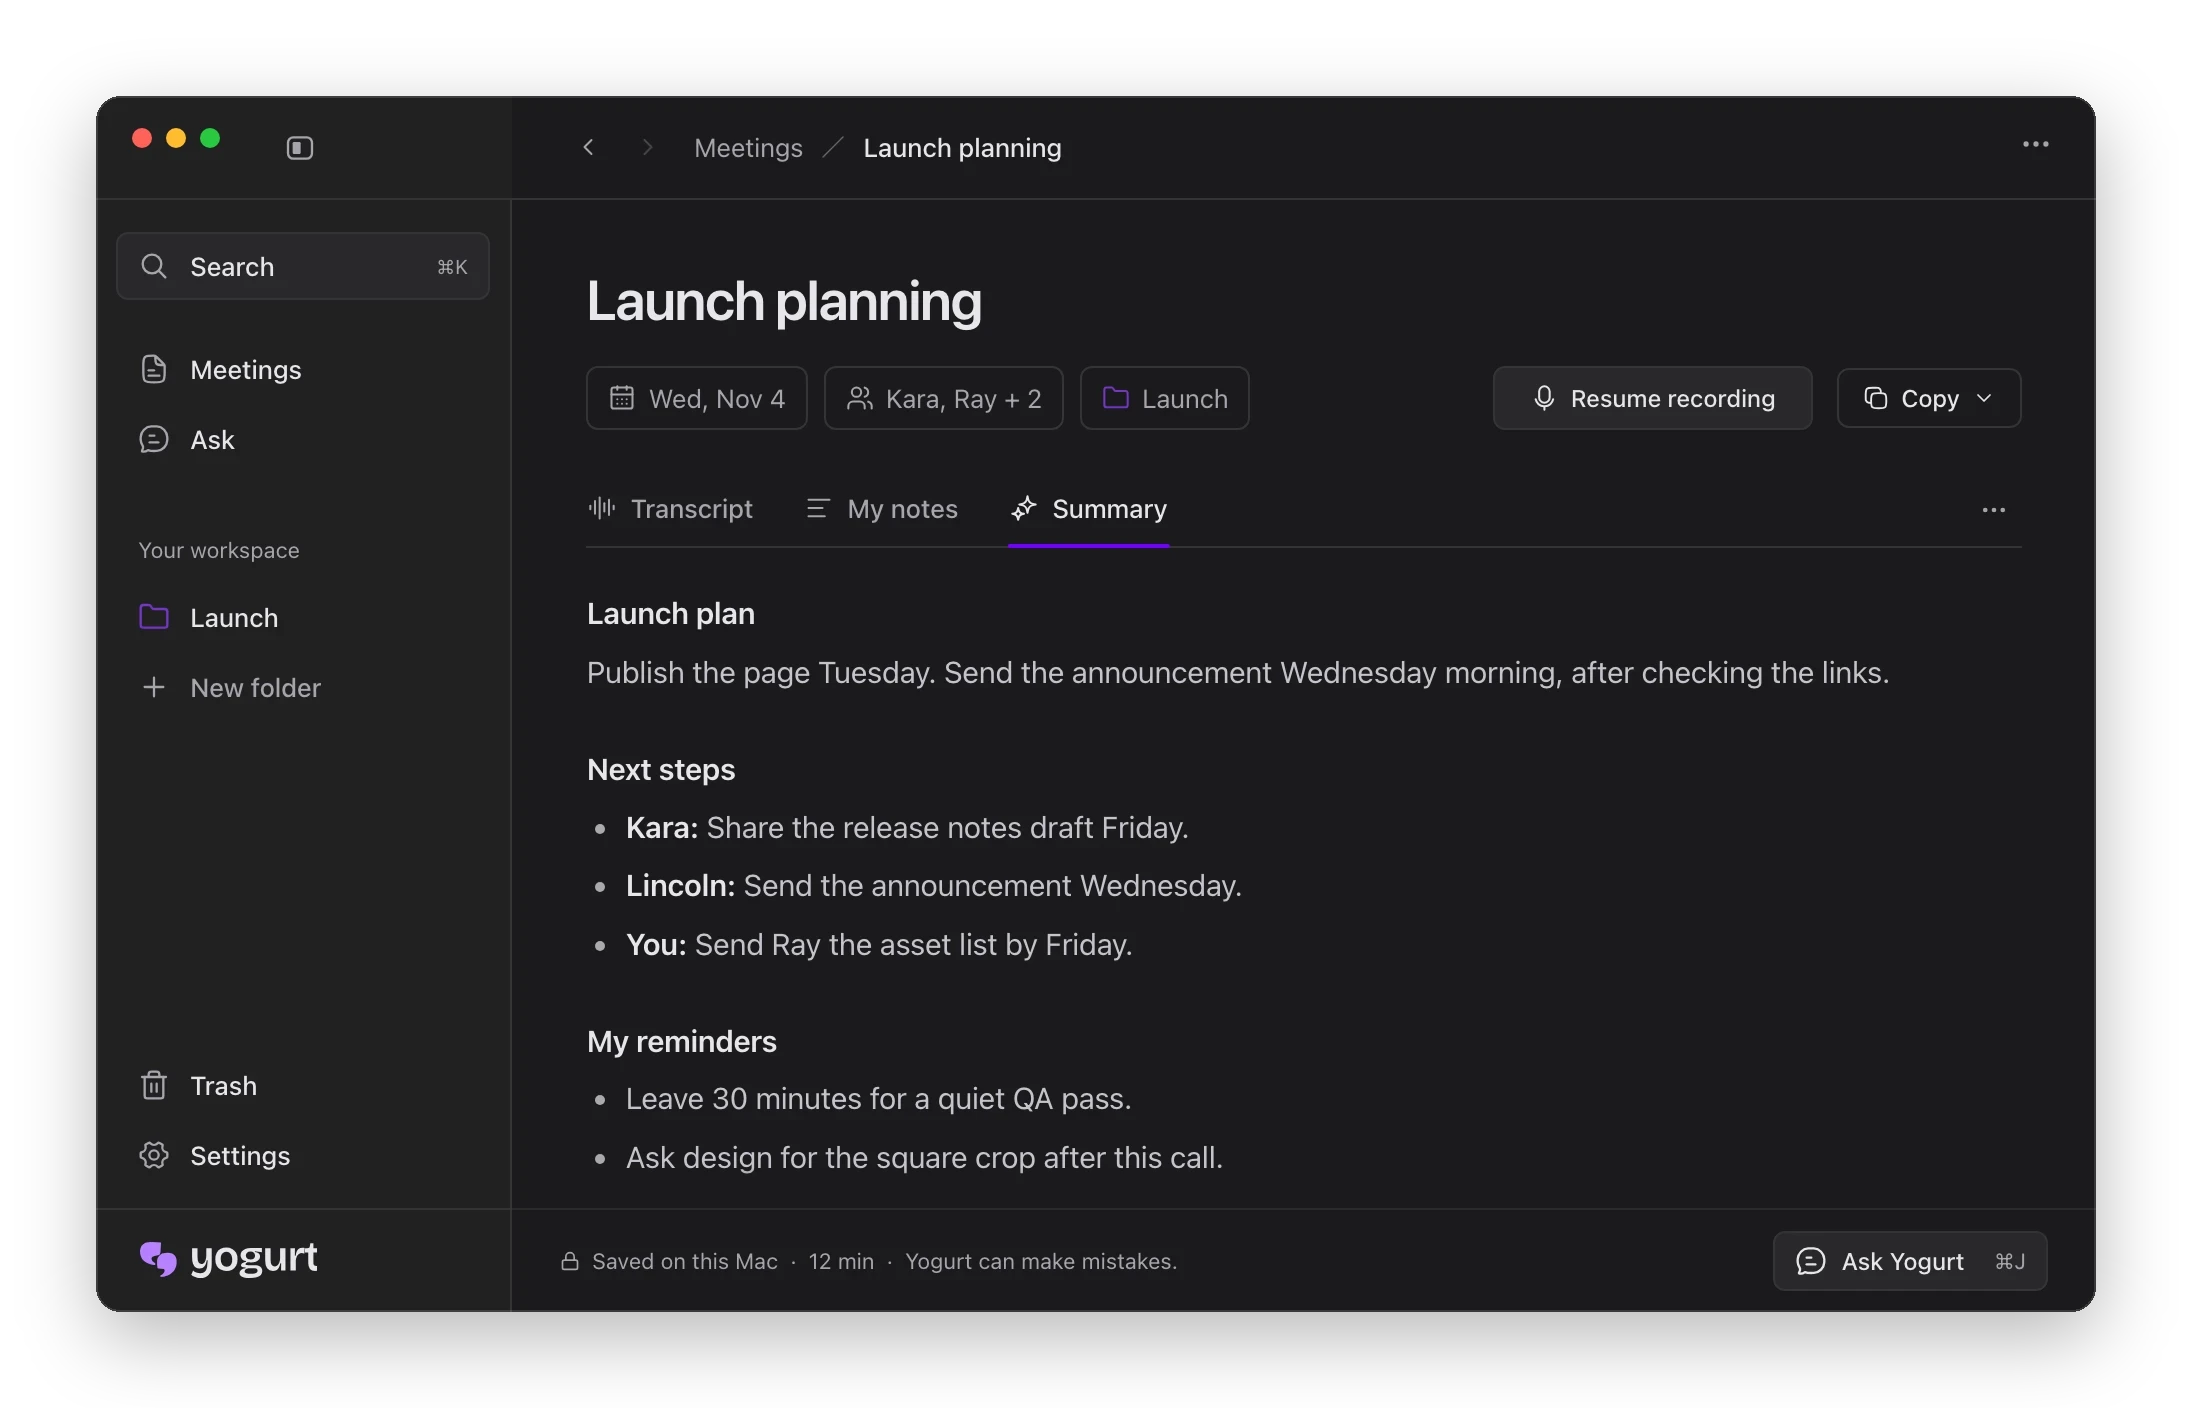
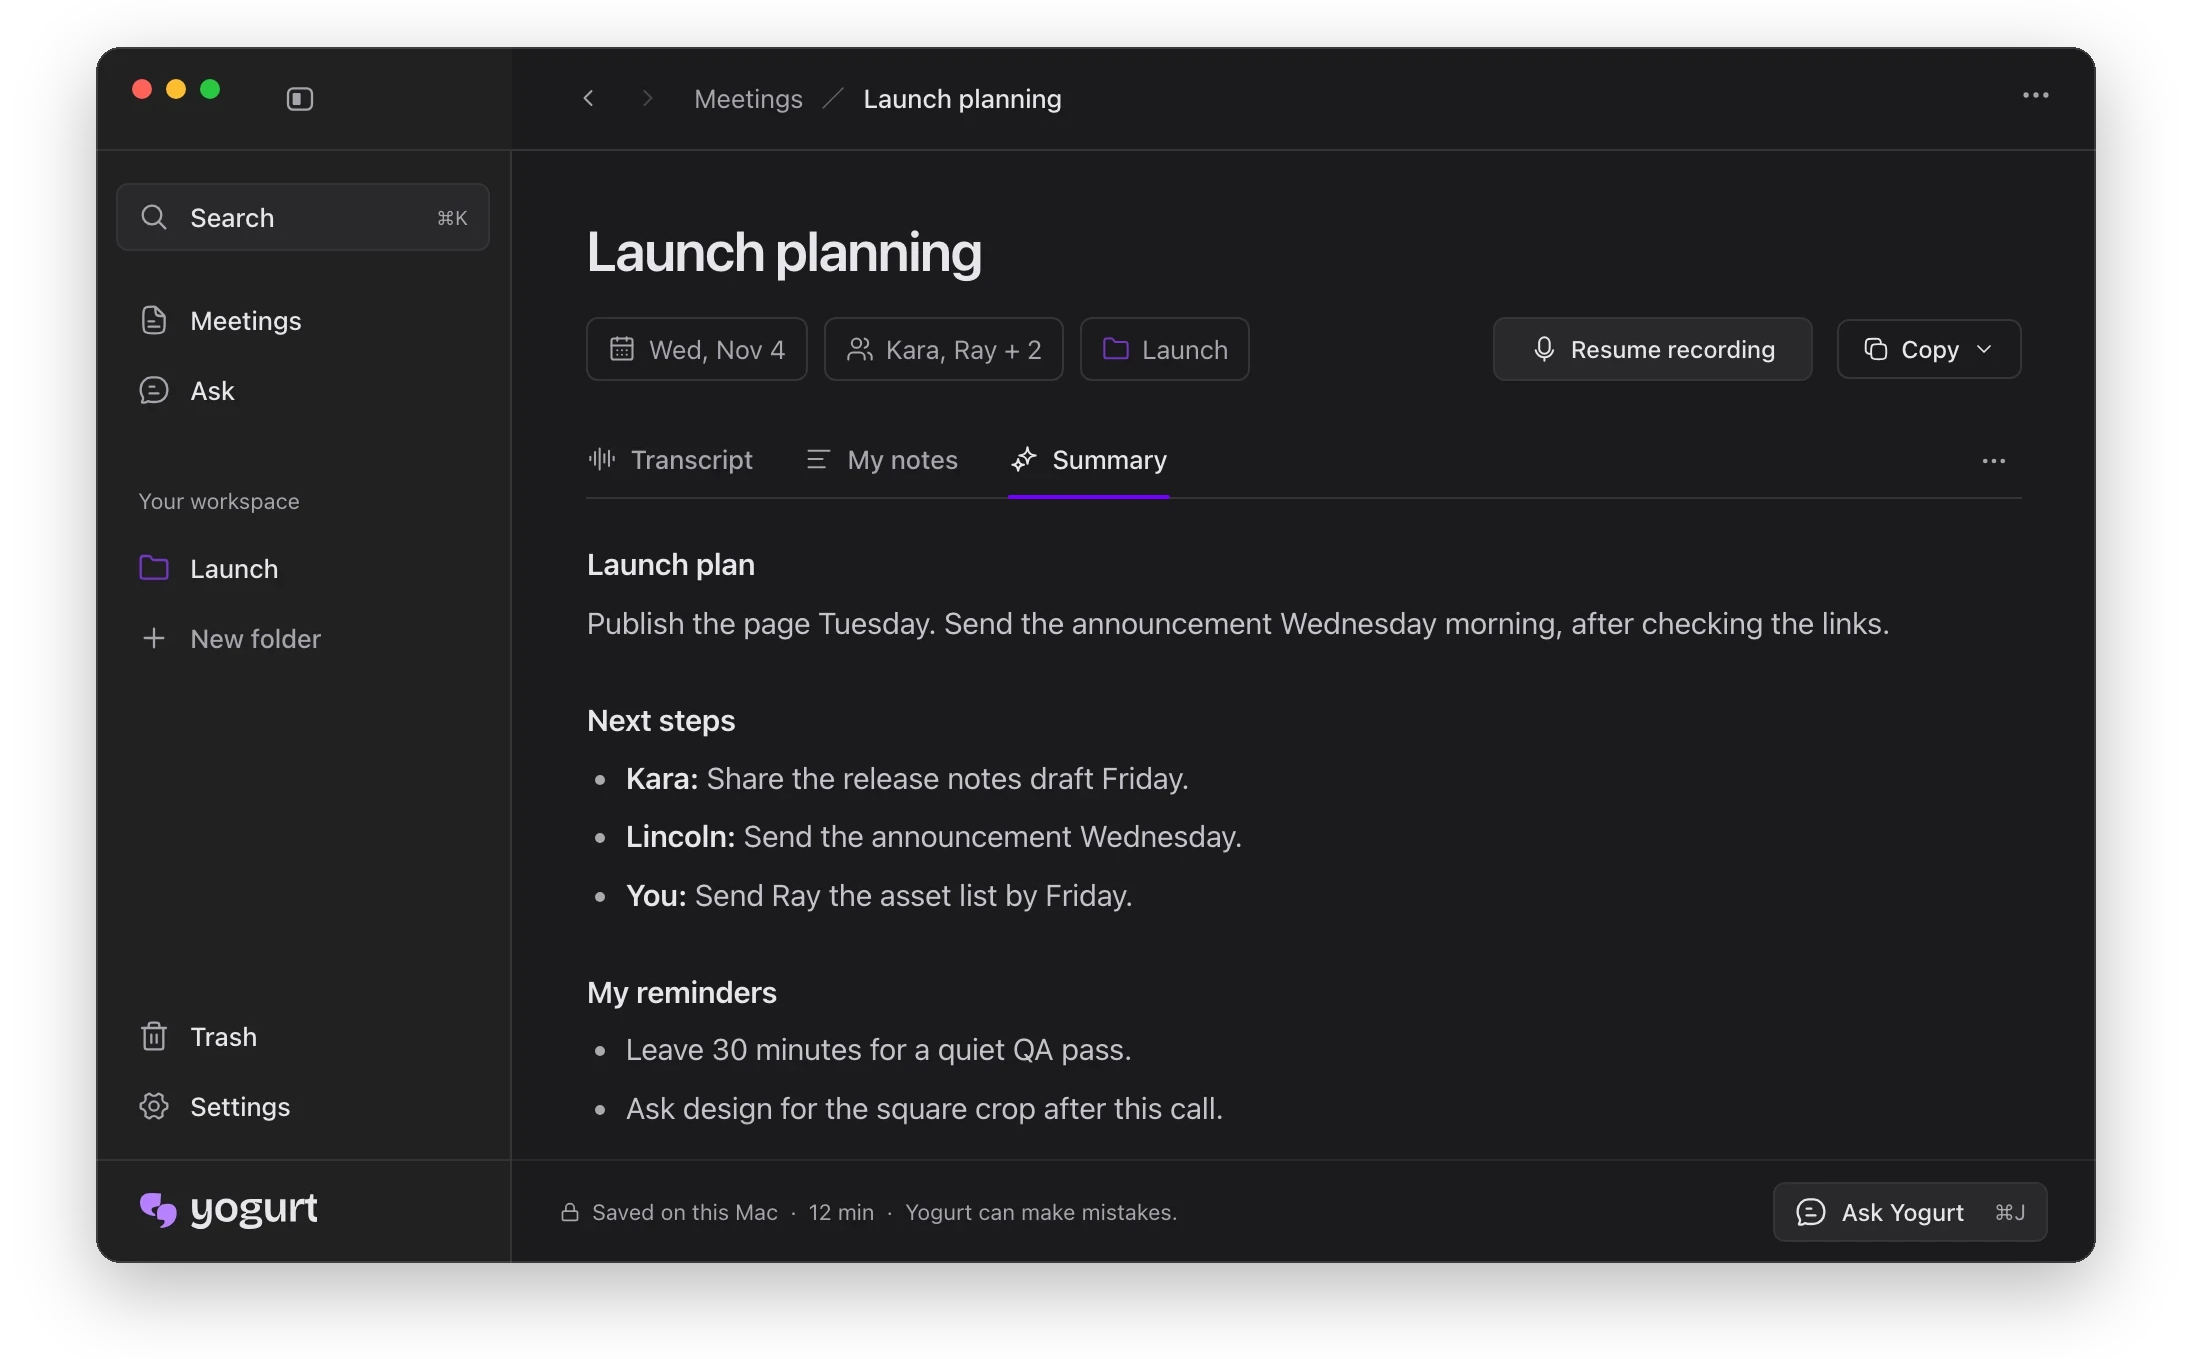
README: features, a demo video, how it works in three steps, and an FAQ that answers the launch thread's questions

diff --git a/README.md b/README.md
@@ -12,13 +12,9 @@
   Download for <a href="https://github.com/FrigadeHQ/yogurt/releases/latest/download/Yogurt-mac-arm64.dmg">Mac</a> · <a href="https://github.com/FrigadeHQ/yogurt/releases/latest/download/Yogurt-windows-x64.exe">Windows</a> · <a href="https://github.com/FrigadeHQ/yogurt/releases/latest/download/Yogurt-linux-x86_64.AppImage">Linux</a>
 </p>
 
-<br>
-
 <p align="center">
   <img src="docs/assets/yogurt-screenshot.webp" width="1074" alt="Yogurt showing the Summary of a launch planning meeting: the plan, next steps by person, and your own reminders">
 </p>
-
-<br>
 
 <p align="center">
   Yogurt records your calls without adding a bot to the meeting.
@@ -29,3 +25,160 @@
   <a href="https://yogurt.so?utm_source=github&utm_medium=readme&utm_campaign=yogurt">yogurt.so</a> · <a href="docs/README.md">Help</a> · <a href="docs/building.md">Build and run locally</a> · <a href="LICENSE">MIT license</a><br><br>
   Made by <a href="https://frigade.com?utm_source=github&utm_medium=readme&utm_campaign=yogurt">Frigade</a>.
 </p>
+
+## What it does
+
+- **Live transcripts.** Yogurt records calls and turns speech into text as you talk.
+- **Meeting summaries.** Yogurt writes up the conversation and any notes you add.
+- **Private by default.** Your audio, transcripts and AI processing stay on your computer.
+- **Free and open source.** You can use Yogurt without an account.
+- **Who said what.** Yogurt names speakers from Zoom, Teams and Meet on Mac only.
+- **Languages.** Multi-language mode transcribes 99 languages.
+- **Recording reminders.** Yogurt offers to record when a supported call starts.
+- **Answers with sources.** Yogurt answers questions across meetings and links to the source.
+- **Folders and search.** You can find meetings by folder, title, notes or transcript.
+- **Copy and export.** You can copy notes or transcripts, or save both as Markdown.
+- **Local MCP server.** Your chosen assistant app can read your notes when you allow access.
+- **Automatic stop.** Yogurt stops recording when the call ends.
+
+## Watch the demo
+
+https://github.com/user-attachments/assets/da16b894-beb1-491a-89e1-fd10666dc9b8
+
+## How it works
+
+1. **Record.** Start recording your microphone and call audio; you can add your own notes.
+2. **Transcribe.** Yogurt uses whisper.cpp and, on supported Macs, Apple SpeechAnalyzer.
+3. **Summarize and ask.** A local open-weight model runs through llama.cpp.
+
+Meeting data stays local; Yogurt goes online for model downloads and update checks.
+
+<details><summary>Where your meetings, recordings, settings and models are stored</summary>
+
+- Mac uses `~/Library/Application Support/Yogurt`.
+- Windows uses `%APPDATA%\Yogurt`.
+- Linux uses `~/.config/Yogurt`, or `$XDG_CONFIG_HOME/Yogurt` if set.
+
+</details>
+
+## FAQ
+
+<details><summary><strong>What kind of computer do I need?</strong></summary>
+
+<br>
+
+> A Mac with Apple silicon and macOS 14.4 or newer, a 64-bit PC with Windows 10 (version 2004) or newer, or a 64-bit Linux computer with Ubuntu 22.04 or newer. Each needs at least 8 GB of memory. If your computer is too slow, Yogurt tells you during setup. Calendar and speaker names from calls are Mac only for now.
+
+</details>
+
+<details><summary><strong>Windows says “Windows protected your PC.” What do I do?</strong></summary>
+
+<br>
+
+> Click More info, then Run anyway. Windows shows this for new apps that aren’t signed with a Microsoft certificate yet. Yogurt is open source, so anyone can check what it does.
+
+</details>
+
+<details><summary><strong>Does Yogurt join my meetings?</strong></summary>
+
+<br>
+
+> No. Yogurt records your microphone and the sound playing on your computer. No bot joins the call, so let the other people on the call know you’re recording.
+
+</details>
+
+<details><summary><strong>Are recordings saved?</strong></summary>
+
+<br>
+
+> Yes. Your recordings, transcripts, and notes are saved locally on your computer.
+
+</details>
+
+<details><summary><strong>Is Yogurt free?</strong></summary>
+
+<br>
+
+> Yes. Yogurt is free and open source under the MIT license. No account is needed.
+
+</details>
+
+<details><summary><strong>Does Yogurt work offline?</strong></summary>
+
+<br>
+
+> Yes. After a one-time download of the AI models, transcription and summaries run locally on your computer.
+
+</details>
+
+<details><summary><strong>How much does setup download?</strong></summary>
+
+<br>
+
+> It depends on your computer. Yogurt downloads a smaller notes model first, about 5 GB, then the best one your computer can run well, which can be 14 GB or more. Recording works once setup finishes, and notes and questions work offline once the notes model is in.
+
+</details>
+
+<details><summary><strong>How do I connect my assistant app?</strong></summary>
+
+<br>
+
+> In **Settings → AI apps**, turn on access, copy the helper command, and add it as a local MCP server in your assistant app. Access is off by default. The app can read your meetings, notes and transcripts, but cannot change them. It may send what it reads to its own online model. Turn access off in Yogurt to stop further reads.
+
+</details>
+
+<details><summary><strong>Can other apps read my notes through MCP?</strong></summary>
+
+<br>
+
+> Access is off until you enable it in **Settings → AI apps**. Apps get read-only access to meetings, notes and transcripts. Mac and Linux use a socket in your profile folder with `0600` permissions, so only your user account can open it. Windows uses a named pipe with a new random name each launch, stored only in your profile folder. There is no per-app token, so any app running under your account can read while access is on. Settings shows connected apps by their self-reported names.
+
+</details>
+
+<details><summary><strong>Which AI models does Yogurt use?</strong></summary>
+
+<br>
+
+> Transcription uses Whisper through whisper.cpp, with large-v3-turbo or a smaller model depending on your computer. On supported Macs, Apple SpeechAnalyzer supplies live words while Whisper produces the saved transcript. Summaries and answers use a local open-weight model from the Gemma 4, gpt-oss or Qwen3 families, chosen for your hardware and run through llama.cpp. The app uses Electron and needs no account.
+
+</details>
+
+<details><summary><strong>Which languages does Yogurt support?</strong></summary>
+
+<br>
+
+> Pick **Multi-language** in **Settings → Language → Spoken language** to transcribe 99 languages. You can also switch from the **English** menu in a note’s footer before or during recording. English only is the default. Summaries follow the meeting’s main language; answers follow your question’s language. Settings also offers 32 app languages.
+
+</details>
+
+<details><summary><strong>Which call apps does Yogurt work with?</strong></summary>
+
+<br>
+
+> You can record calls in any app because Yogurt captures your microphone and system audio. Call detection covers Zoom, Teams and Meet. On Mac, Yogurt can also read their speaker names with Accessibility permission, when the call app shows who is speaking.
+
+</details>
+
+<details><summary><strong>How does Yogurt know a call has started?</strong></summary>
+
+<br>
+
+> It checks which apps are using your microphone. For browser calls, it also checks the tab title or a nearby calendar event with a call link. This triggers an offer to record; recording starts only when you choose to.
+
+</details>
+
+<details><summary><strong>How do I connect my calendar?</strong></summary>
+
+<br>
+
+> On Mac, allow Calendar access in Settings. Yogurt reads the calendars already on your computer and lets you choose which ones to show. You do not sign into a calendar account in Yogurt.
+
+</details>
+
+## Build from source
+
+See [Build and run locally](docs/building.md) for setup, tests and installer builds.
+
+## License
+
+[MIT](LICENSE) · Copyright 2026 Frigade.
